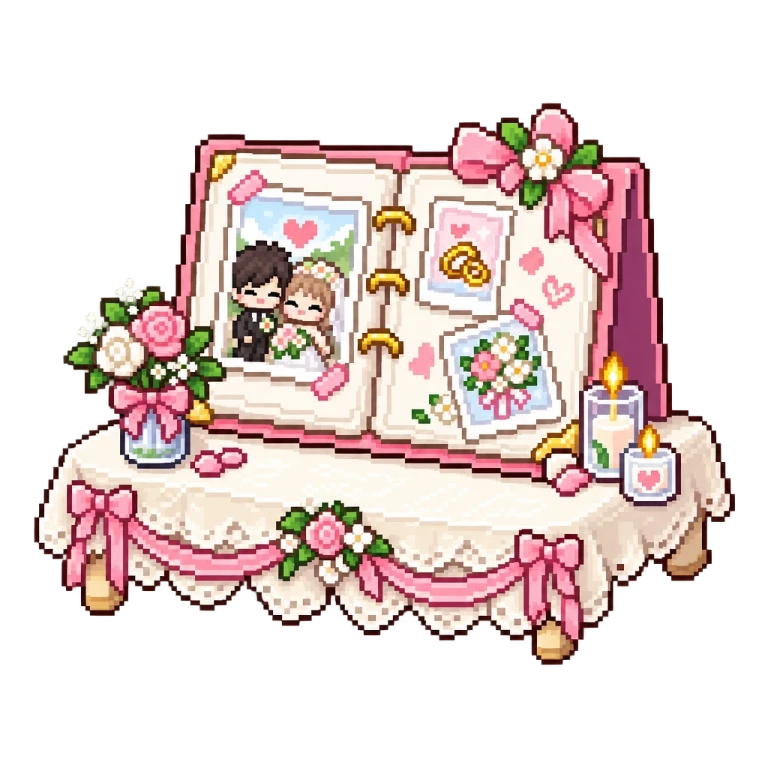
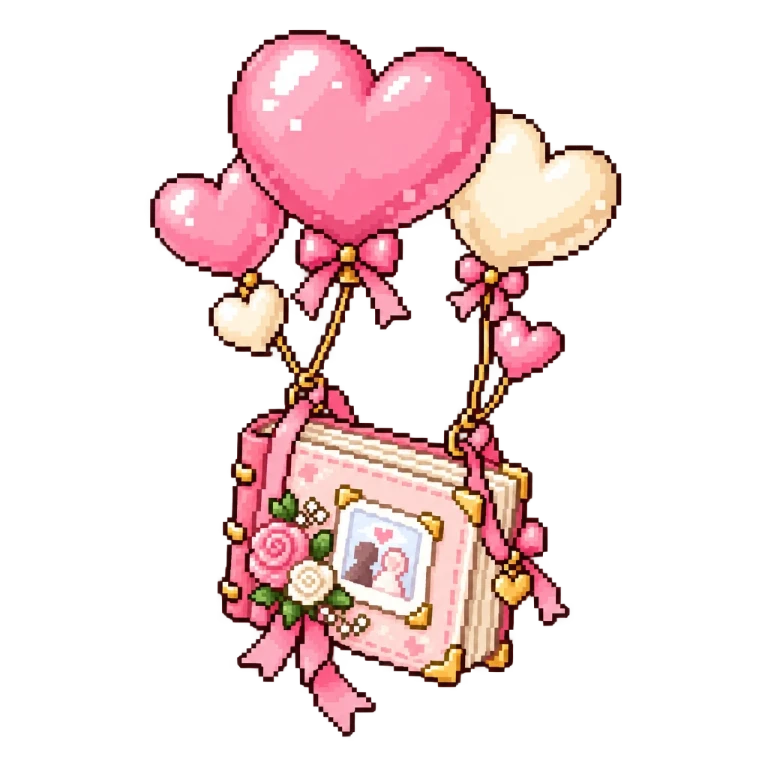
Update walkable map areas (dev mode): 41 floors, 26 climbs; update NPC images album-studio

diff --git a/js/map-data.js b/js/map-data.js
@@ -75,7 +75,7 @@ const MAP_DATA = {
   ],
   spawn: {"floor":"f1","x":36}, // 방명록 등록 직후 새 캐릭터가 나타나는 곳 { floor, x }
   couple: {"groom":{"floor":"stage","x":727},"bride":{"floor":"stage","x":787}}, // 신랑·신부 자리 { groom: { floor, x }, bride: { floor, x }, fixed } (null이면 무대 가운데, fixed면 자리 고정·아니면 무대 안에서 돌아다님)
-  // NPC 설정 (js/npcs.js 값을 덮어씀) { name, shortMsg, longMsg, mode: fixed|random|stage, floor, x } — mode 없으면 처음 발판에서 돌아다님. def가 있으면 개발자 모드에서 추가한 NPC { desc, height, motions }, album이면 앨범 NPC(img/gallery/<album>/), deleted면 기본 NPC 숨김
+  // NPC 설정 (js/npcs.js 값을 덮어씀) { name, shortMsg, longMsg, mode: fixed|random|stage, floor, x, y } — mode 없으면 처음 발판에서 돌아다님. def가 있으면 개발자 모드에서 추가한 NPC { desc, height, motions }, album이면 앨범 NPC(img/gallery/<album>/), deleted면 기본 NPC 숨김
   npcs: {
     "dog-mongsil": {"shortMsg":"멍멍! 삑삑~","longMsg":"신랑이 초등학생 때부터 함께 지낸 페키니즈 강아지다.\n페키니즈 특유의 귀여운 멍청미를 지니고 있다.\n지금은 강아지별에 살고 있지만, 결혼 소식을 듣고 잠시 놀러왔다.\n분홍색 삑삑이 장난감을 무척 아껴 언제나 품에 지니고 다닌다."},
     "dog-esso": {"shortMsg":"멍멍! 헤헤","longMsg":"신랑 부모님이 키우는 보더콜리 강아지다.\n아주 영리하고 리더십이 강하다.\n최근 질투심에 고양이밥을 몰래 훔쳐 먹다가 살이 쪄, 리트리버와 분간이 잘 되지 않는다.\n현재는 포도밭을 누비며 행복하게 살고 있다."},
@@ -87,6 +87,6 @@ const MAP_DATA = {
     "cat-byeol": {"shortMsg":"미야옹~","longMsg":"신랑의 누나가 키우는 고양이다.\n가끔 신랑 집에 머물며 자연스럽게 신랑의 주인 노릇을 한다.\n겁이 많아 낯선 사람이 오면 숨어서 바들바들 떨지만, 30분쯤 지나면 호기심을 못 참고 슬그머니 나와 부비댄다.\n지금은 누나 집에서 아기와 동고동락 중이다."},
     "groom": {"name":"경태","shortMsg":"와줘서 고마워!","longMsg":"바쁘신 와중에 저희 결혼식에 와주셔서 진심으로 감사드립니다.\n행복하게 잘 살겠습니다!"},
     "bride": {"name":"민지","shortMsg":"행복하게 살게요","longMsg":"함께해 주셔서 감사합니다.\n오늘 남겨주신 따뜻한 말들 오래오래 간직할게요 :)"},
-    "album-studio": {"name":"스튜디오 앨범","shortMsg":"스튜디오 앨범 보고 가세요!","longMsg":"스튜디오 사진 앨범","mode":"fixed","floor":"gazebo","x":974,"album":"studio","def":{"desc":"탁자 위에 펼쳐서 세워져 있게 놓여진 사진앨범","height":40,"motions":[]}},
+    "album-studio": {"name":"스튜디오 앨범","shortMsg":"스튜디오 앨범 보고 가세요!","longMsg":"스튜디오 사진 앨범","mode":"fixed","x":974,"y":842,"album":"studio","def":{"desc":"둥둥 떠있는 하트 풍선에 매달려있는 사진앨범","height":72,"motions":[]}},
   },
 };
